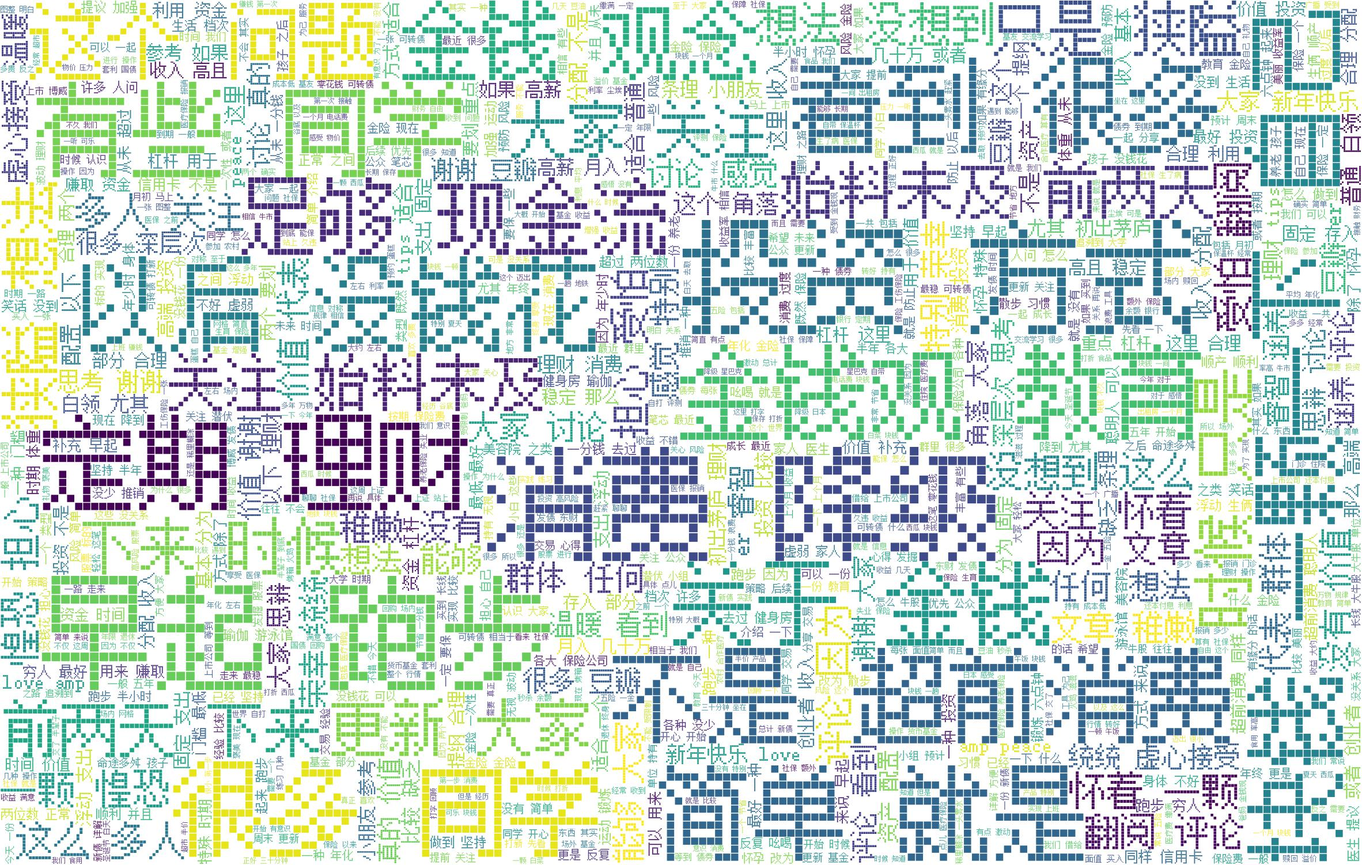
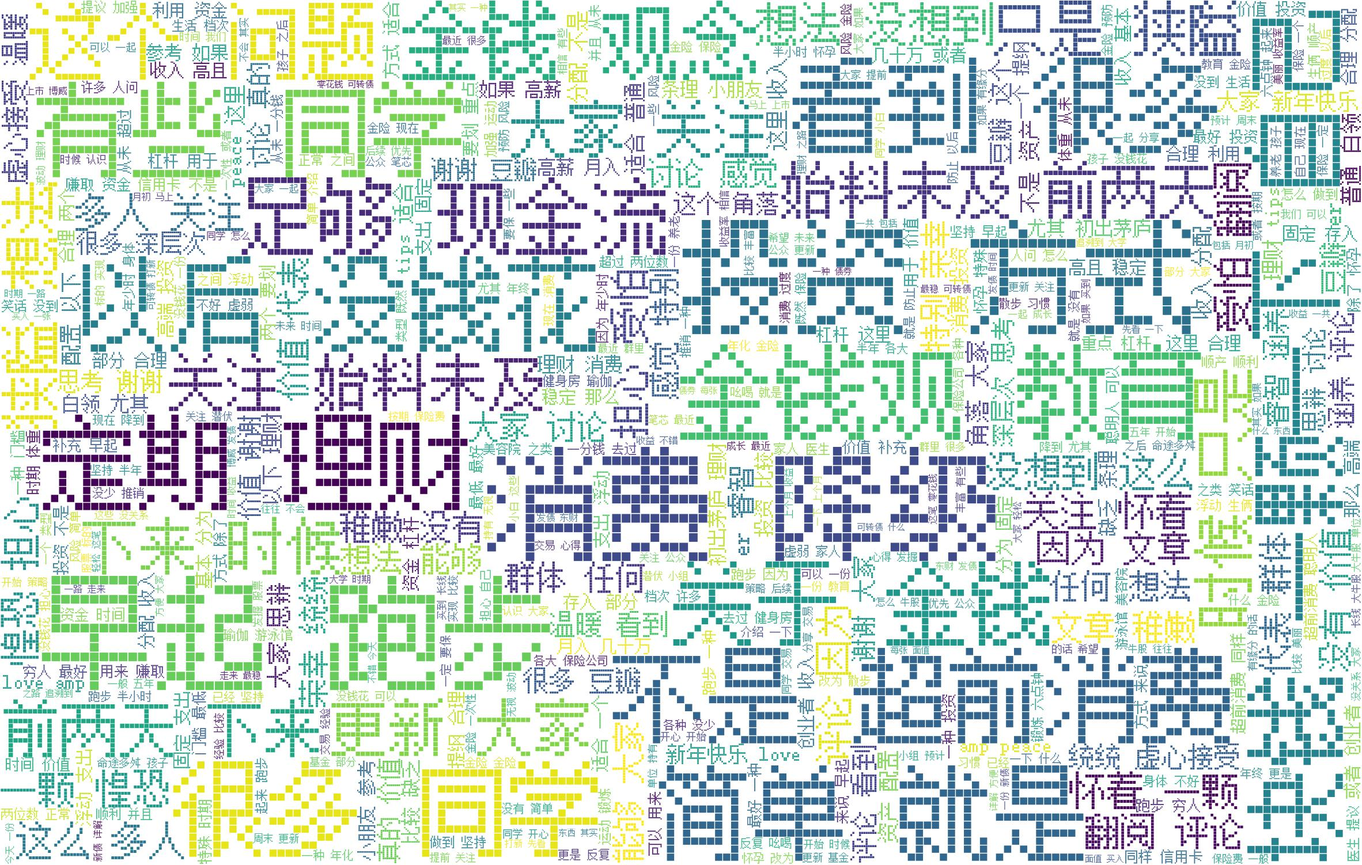
上传相关代码以及示例数据、图片

diff --git a/main.py b/main.py
@@ -5,13 +5,14 @@ import matplotlib.pyplot as plt
 import pandas as pd
 import jieba
 
+
+# 页面刷新时，变化的是接口中start的参数，为从0-200的间隔20的数字。⬇获取所有请求数据。
 for i in range(0,200,20):
-    # 通过浏览器检查，得到数据的URL来源链接
+    # 开发者工具-网络中items..的文件为数据，查看Headers获取网页请求的Requests Url
     url = 'https://m.douban.com/rexxar/api/v2/gallery/topic/20737/items?' \
           'sort=hot&start=0&count=20&status_full_text=1&guest_only=0&ck=null'.format(i)
 
-    # 破解防爬虫，带上请求头
-    # 这两个不能省略
+    # 豆瓣反爬虫机制，需带上请求头。
     headers = {'User-Agent': 'Mozilla/5.0 (Windows NT 10.0; Win64; x64) AppleWebKit/537.36 (KHTML, like Gecko) Chrome/76.0".3809.100 Safari/537.36',
                'Referer': 'https://www.douban.com/gallery/topic/20737/?from=gallery_hot_post'}
 
@@ -19,27 +20,26 @@ for i in range(0,200,20):
     reponse = requests.get(url, headers=headers)
     html = reponse.json()
 
-    # 解析数据，获得短评
-    # 保存到本地
+    # 解析数据，并保存到本地
     for j in range(19):
         abs = html['items'][j]['abstract']
-        with open("want_after.txt", "a", encoding='utf-8') as f:
+        with open("data.txt", "a", encoding='utf-8') as f:
             f.write(abs)
             print(abs)
 
-# 获得wordcloud 需要的 文本格式
-with open("want_after.txt", "r", encoding='utf-8') as f:
+# 获得wordcloud 需要的文本格式
+with open("data.txt", "r", encoding='utf-8') as f:
      text = ' '.join(jieba.cut(f.read(),cut_all=False))
      # print(text)
 
-backgroud_Image = plt.imread('背景图.png')  # 背景图
+backgroud_Image = plt.imread('背景图.png')  # 背景图，生成图片的大小为背景图的大小
 
 # 词云的一些参数设置
 wc = WordCloud(
       background_color='white',
       mask=backgroud_Image,
       font_path='pixel.ttf',
-      max_words=700,
+      max_words=400,
       max_font_size=200,
       min_font_size=8,
       random_state=50,
@@ -64,4 +64,3 @@ wc.to_file('输出结果.jpg')
 # df = pd.DataFrame(sort_after)
 # # 保证不乱码
 # df.to_csv('sort_after.csv', encoding='utf_8_sig')
-#

diff --git a/README.md b/README.md
@@ -1,2 +1,10 @@
 # WordCloud-DouBan_Topic
+
  爬取豆瓣话题制作词云。
+
+## 🏔示例
+
+> 豆瓣话题——你觉得最好的理财方式是什么？
+https://www.douban.com/gallery/topic/20737/?from=gallery_hot_post
+
+![1](输出结果.jpg)
